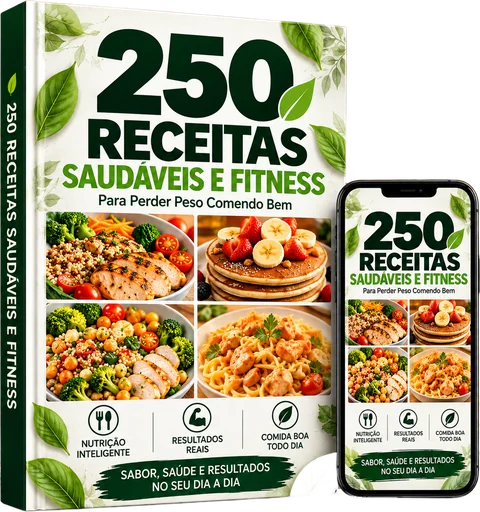
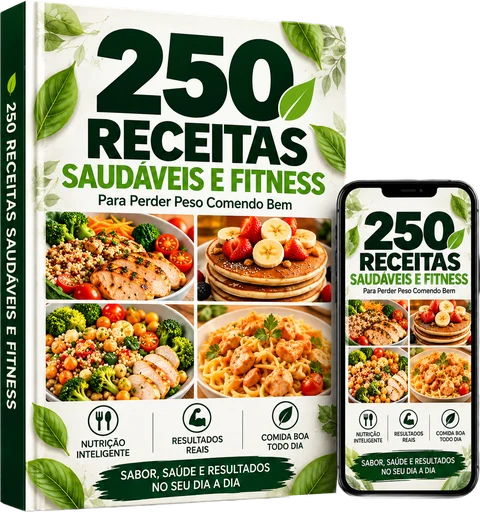
Oferta 19,90: recorte do livro refeito (quinas exatas da capa, sem buracos nem sobra de fundo)

diff --git a/index.html b/index.html
@@ -936,7 +936,7 @@ var e=ttq._i[t]||[],n=0;n<ttq.methods.length;n++)ttq.setAndDefer(e,ttq.methods[n
 
     <div class="plans-grid">
       <div class="plan-card">
-        <img width="800" height="853" src="assets/plano-basico-250.webp?v=2" srcset="assets/plano-basico-250-m.webp?v=2 480w, assets/plano-basico-250.webp?v=2 800w" sizes="(max-width:880px) 300px, 260px" alt="Plano Básico - guia +250 Almoços Fitness" loading="lazy" decoding="async">
+        <img width="800" height="853" src="assets/plano-basico-250.webp?v=3" srcset="assets/plano-basico-250-m.webp?v=3 480w, assets/plano-basico-250.webp?v=3 800w" sizes="(max-width:880px) 300px, 260px" alt="Plano Básico - guia +250 Almoços Fitness" loading="lazy" decoding="async">
         <h3>OFERTA BÁSICA</h3>
         <div class="plan-type">+250 Almoços Fitness</div>
         <div class="plan-price">
